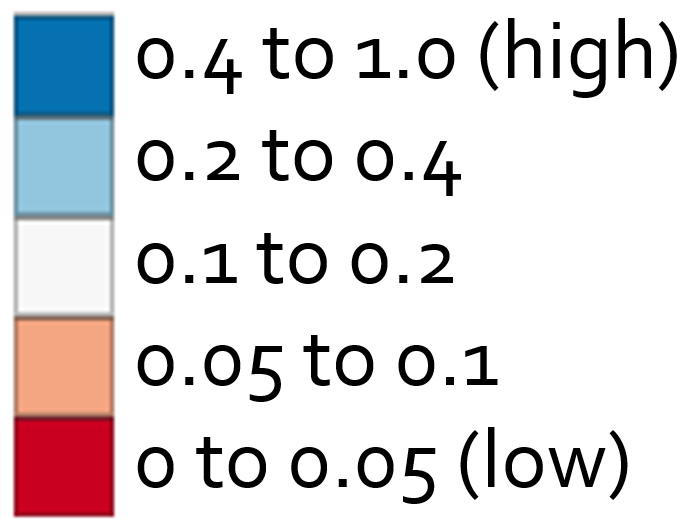
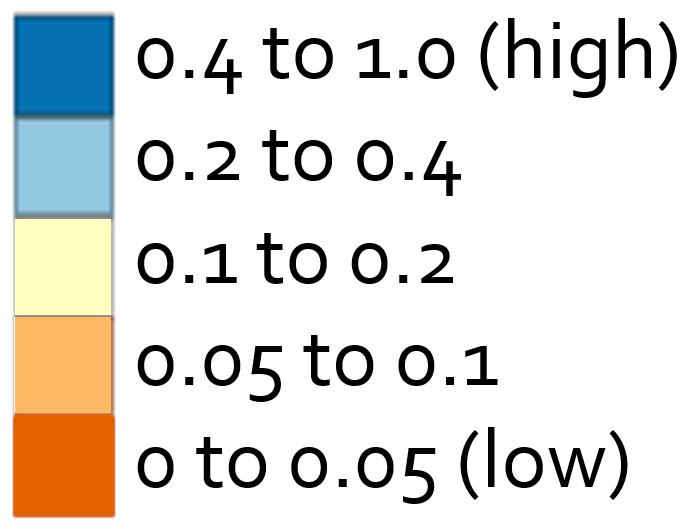
Change color scheme from red to orange, to evade redlining connotations

Changed region(s): [[0.0, 0.3925, 0.1834, 0.9962]]

diff --git a/client/src/components/Map.js b/client/src/components/Map.js
@@ -114,20 +114,20 @@ function Map(props) {
                         [
                             'match',
                             ['get', 'res'+(dataindex+12)],
-                            '1', '#ca0020',
-                            '2', '#f4a582', 
-                            '3', '#f7f7f7',
+                            '1', '#e66101',
+                            '2', '#fdb863', 
+                            '3', '#ffffbf',
                             '4', '#92c5de',
                             '5', '#0571b0',
-                            /* other */ '#ca0020'
+                            /* other */ '#e66101'
                         ],
                         'high',
                         [
                             'match',
                             ['get', 'res'+dataindex],
-                            '1', '#ca0020',
-                            '2', '#f4a582', 
-                            '3', '#f7f7f7',
+                            '1', '#e66101',
+                            '2', '#fdb863', 
+                            '3', '#ffffbf',
                             '4', '#92c5de',
                             '5', '#0571b0',
                             /* other */ '#ca0020'

diff --git a/client/src/App.js b/client/src/App.js
@@ -100,7 +100,7 @@ function App() {
                Link to feedback form
             </Link>
             <br/>
-            <i> Last updated: February 11, 2021</i>
+            <i> Last updated: March 1, 2021</i>
             <br/>
             Links to <Link color="teal.300" href="https://www.dropbox.com/s/yk0w1ifzzprbbqd/shen-tpp-2021.pdf?dl=0">
                 thesis
